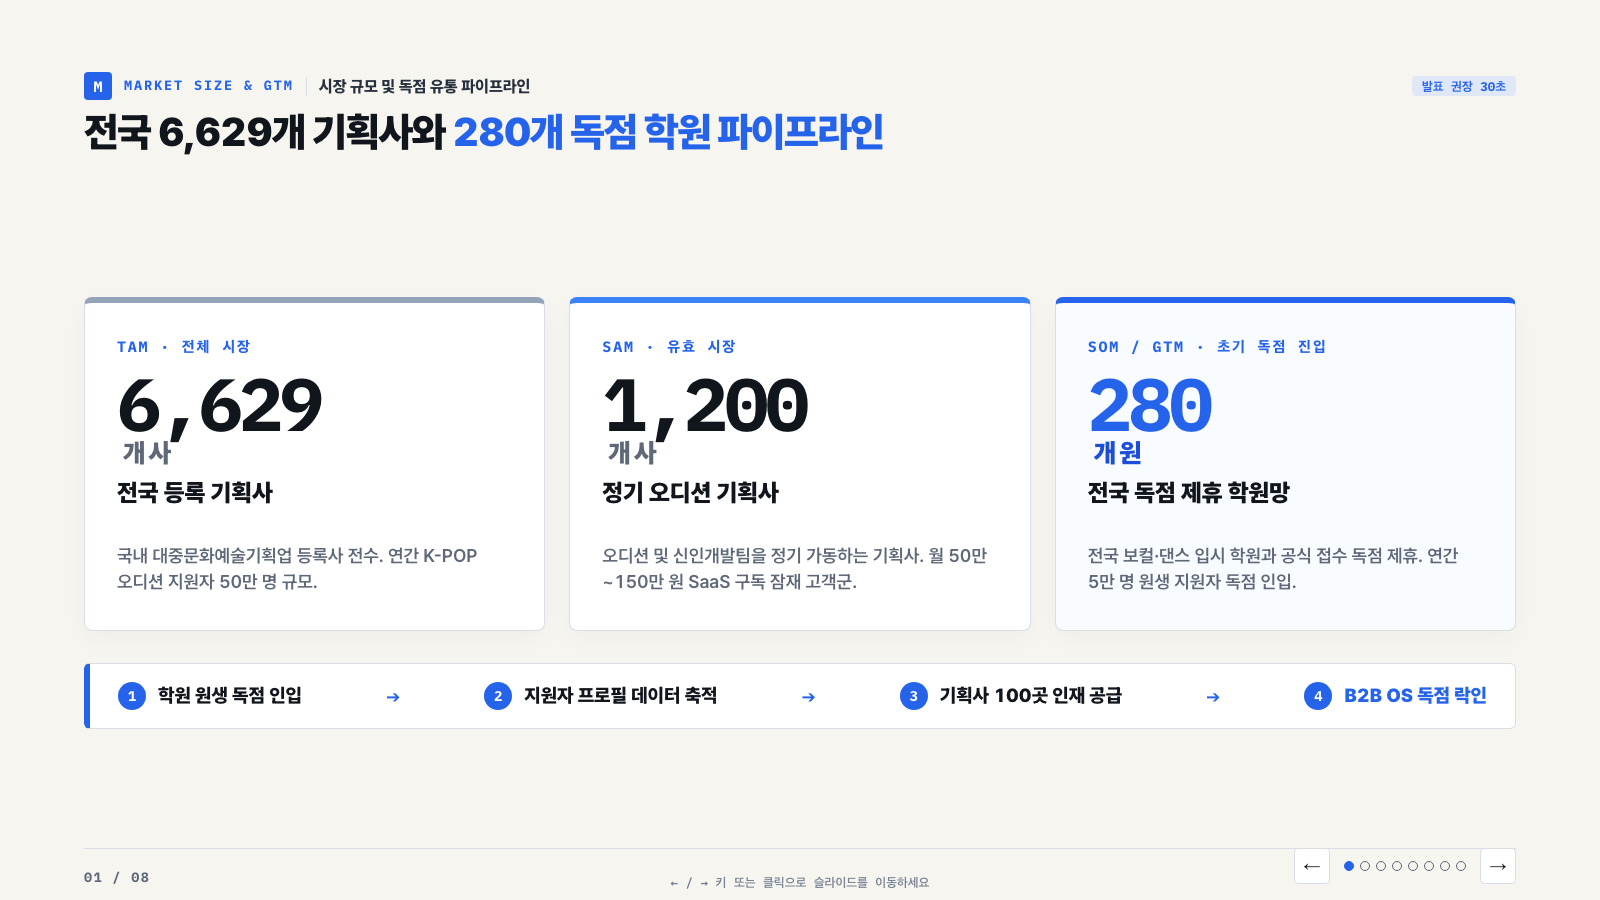
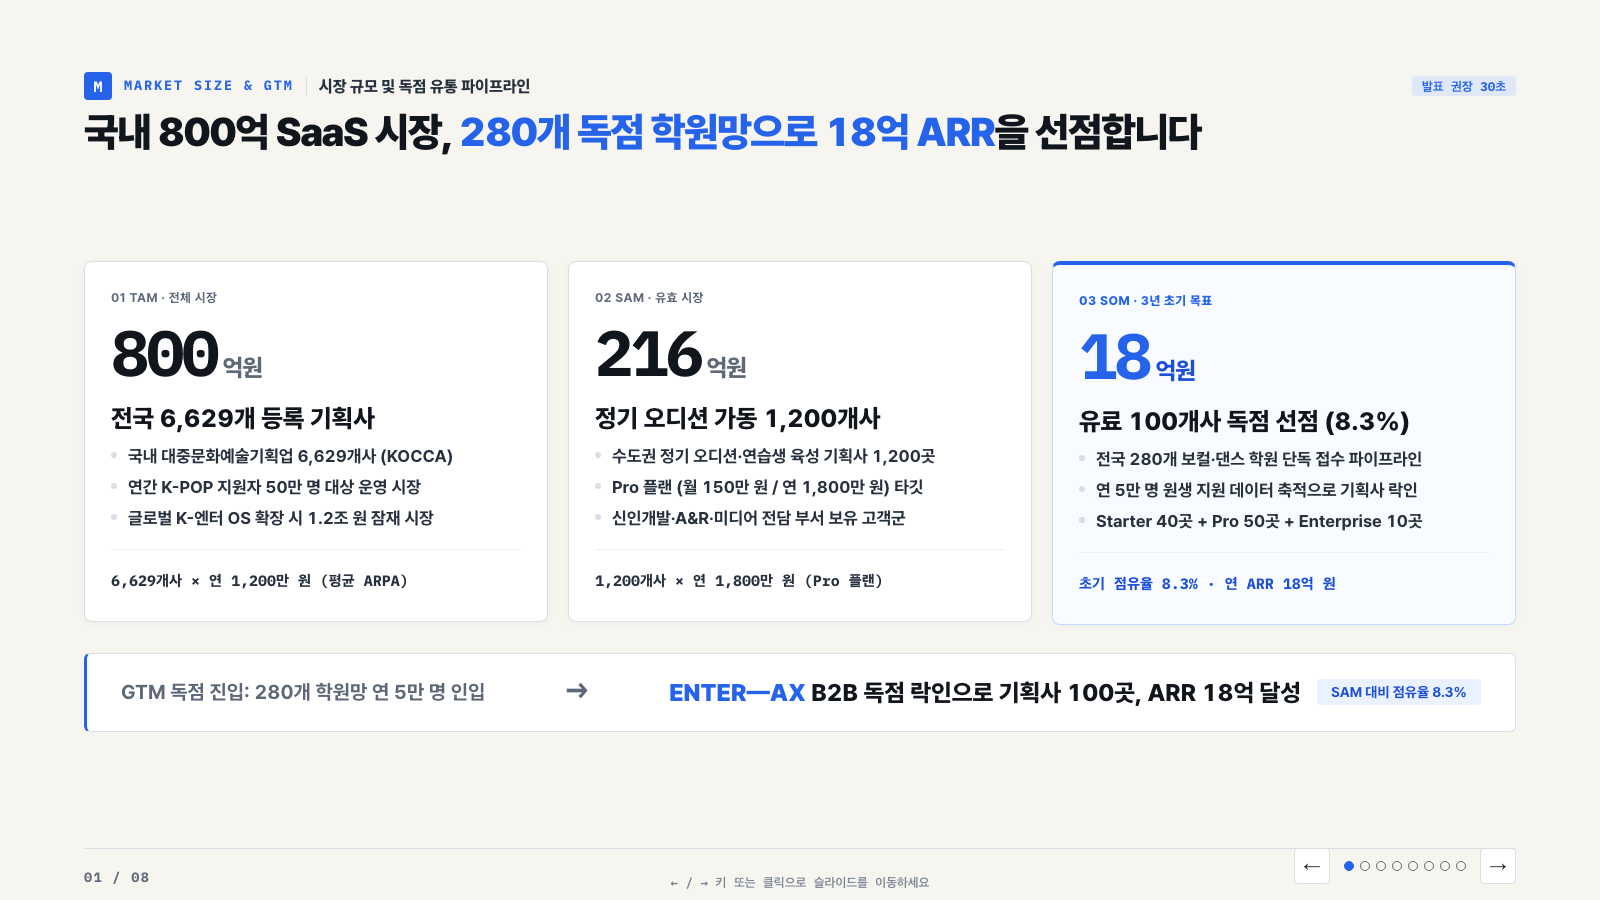
refactor(deck): rewrite slide 5 market size with monetary figures and align to slide 2 tone and manner

diff --git a/ir-deck-2.html b/ir-deck-2.html
@@ -668,100 +668,44 @@
       color: var(--cobalt);
     }
 
-    /* ---------- SLIDE 05: MARKET SIZE & GTM (Airbnb TAM/SAM/SOM Circles) ---------- */
-    .market-stage-airbnb {
-      display: flex;
-      flex-direction: column;
-      gap: 32px;
-      flex: 1;
-      min-height: 0;
-      justify-content: center;
-    }
+    /* ---------- SLIDE 05: MARKET SIZE & GTM (Airbnb TAM/SAM/SOM 3-Card Style) ---------- */
     .market-3-grid {
       display: grid;
       grid-template-columns: repeat(3, 1fr);
-      gap: 24px;
+      gap: 20px;
+      align-items: start;
     }
-    .market-card-airbnb {
-      background: var(--paper);
-      border: 1.5px solid var(--rule);
-      border-radius: 8px;
-      padding: 36px 32px;
-      display: flex;
-      flex-direction: column;
-      justify-content: flex-start;
-      box-shadow: 0 8px 24px rgba(0,0,0,0.03);
-    }
-    .market-card-airbnb > p { margin-top: 28px; }
-    .market-card-airbnb:nth-child(1) { border-top: 6px solid #94a3b8; }
-    .market-card-airbnb:nth-child(2) { border-top: 6px solid #3b82f6; }
-    .market-card-airbnb:nth-child(3) { border-top: 6px solid var(--cobalt); background: #f8fbff; }
-
-    .market-card-top small {
-      display: block;
-      font: 900 15px/1 var(--font-mono);
-      color: var(--cobalt);
-      letter-spacing: .12em;
-      margin-bottom: 12px;
-    }
-    .market-card-number {
-      font: 900 74px/1 var(--font-mono);
-      color: var(--ink);
+    .market-card-num-row {
+      font: 900 64px/1 var(--font-mono);
       letter-spacing: -.05em;
-      margin-bottom: 12px;
+      color: var(--ink);
+      margin: 6px 0 8px;
     }
-    .market-card-airbnb:nth-child(3) .market-card-number { color: var(--cobalt); }
-    .market-card-number small {
-      font-size: 26px;
+    .market-card-num-row small {
+      font-size: 24px;
       font-family: var(--font-sans);
       color: var(--muted);
+      font-weight: 800;
       margin-left: 6px;
     }
-    .market-card-airbnb:nth-child(3) .market-card-number small { color: var(--cobalt-deep); }
-    .market-card-top h3 {
-      font-size: 24px;
-      font-weight: 900;
-      color: var(--ink);
-      margin-bottom: 8px;
+    .market-som-featured {
+      border: 1.5px solid #bfdbfe !important;
+      border-top: 4px solid var(--cobalt) !important;
+      background: #f8fbff !important;
     }
-    .market-card-airbnb p {
-      font-size: 18px;
-      color: var(--muted);
-      font-weight: 600;
-      line-height: 1.4;
+    .market-som-badge {
+      color: var(--cobalt) !important;
+      font-weight: 800 !important;
     }
-
-    .market-flywheel-ribbon {
-      background: var(--paper);
-      border: 1.5px solid var(--rule);
-      border-left: 6px solid var(--cobalt);
-      border-radius: 6px;
-      padding: 18px 28px;
-      display: flex;
-      align-items: center;
-      justify-content: space-between;
+    .market-som-num {
+      color: var(--cobalt) !important;
     }
-    .market-flywheel-step {
-      display: flex;
-      align-items: center;
-      gap: 12px;
-      font-size: 19px;
-      font-weight: 850;
-      color: var(--ink);
+    .market-som-num small {
+      color: var(--cobalt-deep) !important;
     }
-    .market-flywheel-step b {
-      display: grid;
-      place-items: center;
-      width: 28px;
-      height: 28px;
-      border-radius: 50%;
-      background: var(--cobalt);
-      color: #fff;
-      font: 800 14px/1 var(--font-mono);
-    }
-    .market-flywheel-arrow {
-      font: 900 24px/1 var(--font-mono);
-      color: var(--cobalt);
+    .market-som-stat {
+      color: var(--cobalt-deep) !important;
+      font-weight: 800 !important;
     }
 
     /* ---------- SLIDE 06: COMPETITION (The Iconic Airbnb 2x2 Matrix) ---------- */
@@ -1180,11 +1124,13 @@
       display: block;
       margin-bottom: 4px;
     }
-    .bm-arr-goal-box strong { font-size: 20px; font-weight: 900; color: var(--ink); }
+    .bm-arr-goal-box strong { font-size: 18px; font-weight: 900; color: var(--ink); }
     .bm-arr-val-airbnb {
       font: 900 48px/1 var(--font-mono);
       color: var(--cobalt);
       letter-spacing: -.04em;
+      white-space: nowrap;
+      flex-shrink: 0;
     }
     .bm-arr-val-airbnb small {
       font-size: 22px;
@@ -1636,48 +1582,73 @@
               <b>M</b><span class="ch">MARKET SIZE &amp; GTM</span><span class="sub">시장 규모 및 독점 유통 파이프라인</span>
               <span class="timing">발표 권장 30초</span>
             </p>
-            <h1>전국 6,629개 기획사와 <span class="headline-key">280개 독점 학원 파이프라인</span></h1>
+            <h1>국내 800억 SaaS 시장, <span class="headline-key">280개 독점 학원망으로 18억 ARR</span>을 선점합니다</h1>
           </header>
-          <div class="slide-content market-stage-airbnb">
-            <!-- 3 TAM / SAM / SOM Giant Cards -->
+          <div class="slide-content prob-stage-airbnb">
+            <!-- 3 TAM / SAM / SOM Giant Cards (Slide 2 Style) -->
             <div class="market-3-grid">
-              <div class="market-card-airbnb">
-                <div class="market-card-top">
-                  <small>TAM · 전체 시장</small>
-                  <div class="market-card-number">6,629<small>개사</small></div>
-                  <h3>전국 등록 기획사</h3>
+              <!-- 01 TAM -->
+              <article class="prob-card-airbnb">
+                <div class="prob-card-top">
+                  <span class="prob-tag-badge">01 TAM · 전체 시장</span>
+                  <div class="market-card-num-row">
+                    800<small>억 원</small>
+                  </div>
+                  <h2>전국 6,629개 등록 기획사</h2>
+                  <ul class="prob-frag-list">
+                    <li>국내 대중문화예술기획업 6,629개사 (KOCCA)</li>
+                    <li>연간 K-POP 지원자 50만 명 대상 운영 시장</li>
+                    <li>글로벌 K-엔터 OS 확장 시 1.2조 원 잠재 시장</li>
+                  </ul>
                 </div>
-                <p>국내 대중문화예술기획업 등록사 전수. 연간 K-POP 오디션 지원자 50만 명 규모.</p>
-              </div>
+                <div class="prob-stat-row">6,629개사 × 연 1,200만 원 (평균 ARPA)</div>
+              </article>
 
-              <div class="market-card-airbnb">
-                <div class="market-card-top">
-                  <small>SAM · 유효 시장</small>
-                  <div class="market-card-number">1,200<small>개사</small></div>
-                  <h3>정기 오디션 기획사</h3>
+              <!-- 02 SAM -->
+              <article class="prob-card-airbnb">
+                <div class="prob-card-top">
+                  <span class="prob-tag-badge">02 SAM · 유효 시장</span>
+                  <div class="market-card-num-row">
+                    216<small>억 원</small>
+                  </div>
+                  <h2>정기 오디션 가동 1,200개사</h2>
+                  <ul class="prob-frag-list">
+                    <li>수도권 정기 오디션·연습생 육성 기획사 1,200곳</li>
+                    <li>Pro 플랜 (월 150만 원 / 연 1,800만 원) 타깃</li>
+                    <li>신인개발·A&amp;R·미디어 전담 부서 보유 고객군</li>
+                  </ul>
                 </div>
-                <p>오디션 및 신인개발팀을 정기 가동하는 기획사. 월 50만~150만 원 SaaS 구독 잠재 고객군.</p>
-              </div>
+                <div class="prob-stat-row">1,200개사 × 연 1,800만 원 (Pro 플랜)</div>
+              </article>
 
-              <div class="market-card-airbnb">
-                <div class="market-card-top">
-                  <small>SOM / GTM · 초기 독점 진입</small>
-                  <div class="market-card-number">280<small>개원</small></div>
-                  <h3>전국 독점 제휴 학원망</h3>
+              <!-- 03 SOM -->
+              <article class="prob-card-airbnb market-som-featured">
+                <div class="prob-card-top">
+                  <span class="prob-tag-badge market-som-badge">03 SOM · 3년 초기 목표</span>
+                  <div class="market-card-num-row market-som-num">
+                    18<small>억 원</small>
+                  </div>
+                  <h2>유료 100개사 독점 선점 (8.3%)</h2>
+                  <ul class="prob-frag-list">
+                    <li>전국 280개 보컬·댄스 학원 단독 접수 파이프라인</li>
+                    <li>연 5만 명 원생 지원 데이터 축적으로 기획사 락인</li>
+                    <li>Starter 40곳 + Pro 50곳 + Enterprise 10곳</li>
+                  </ul>
                 </div>
-                <p>전국 보컬·댄스 입시 학원과 공식 접수 독점 제휴. 연간 5만 명 원생 지원자 독점 인입.</p>
-              </div>
+                <div class="prob-stat-row market-som-stat">초기 점유율 8.3% · 연 ARR 18억 원</div>
+              </article>
             </div>
 
-            <!-- Flywheel Ribbon -->
-            <div class="market-flywheel-ribbon">
-              <div class="market-flywheel-step"><b>1</b><span>학원 원생 독점 인입</span></div>
-              <div class="market-flywheel-arrow">➔</div>
-              <div class="market-flywheel-step"><b>2</b><span>지원자 프로필 데이터 축적</span></div>
-              <div class="market-flywheel-arrow">➔</div>
-              <div class="market-flywheel-step"><b>3</b><span>기획사 100곳 인재 공급</span></div>
-              <div class="market-flywheel-arrow">➔</div>
-              <div class="market-flywheel-step"><b>4</b><span style="color:var(--cobalt); font-weight:900;">B2B OS 독점 락인</span></div>
+            <!-- Bottom Contrast Ribbon (Slide 2 Style) -->
+            <div class="prob-ribbon">
+              <div class="prob-ribbon-left">
+                <span>GTM 독점 진입: 280개 학원망 연 5만 명 인입</span>
+              </div>
+              <div class="prob-ribbon-arrow">➔</div>
+              <div class="prob-ribbon-right">
+                <span><b class="prob-ribbon-brand">ENTER—AX</b> B2B 독점 락인으로 기획사 100곳, ARR 18억 달성</span>
+                <span class="prob-ribbon-pill">SAM 대비 점유율 8.3%</span>
+              </div>
             </div>
           </div>
           <div class="footer-rule" aria-hidden="true"></div>
@@ -1871,10 +1842,10 @@
 
               <div class="bm-arr-goal-box">
                 <div>
-                  <span>3년 차 목표 ARR (유료 고객 80개사)</span>
-                  <strong>Pro 65개사 + Enterprise 15개사</strong>
+                  <span>3년 차 목표 ARR (초기 유료 100개사)</span>
+                  <strong>Starter 40곳 + Pro 50곳 + Enterprise 10곳</strong>
                 </div>
-                <div class="bm-arr-val-airbnb">9.9<small>억 원</small></div>
+                <div class="bm-arr-val-airbnb">18<small>억 원</small></div>
               </div>
             </div>
           </div>
